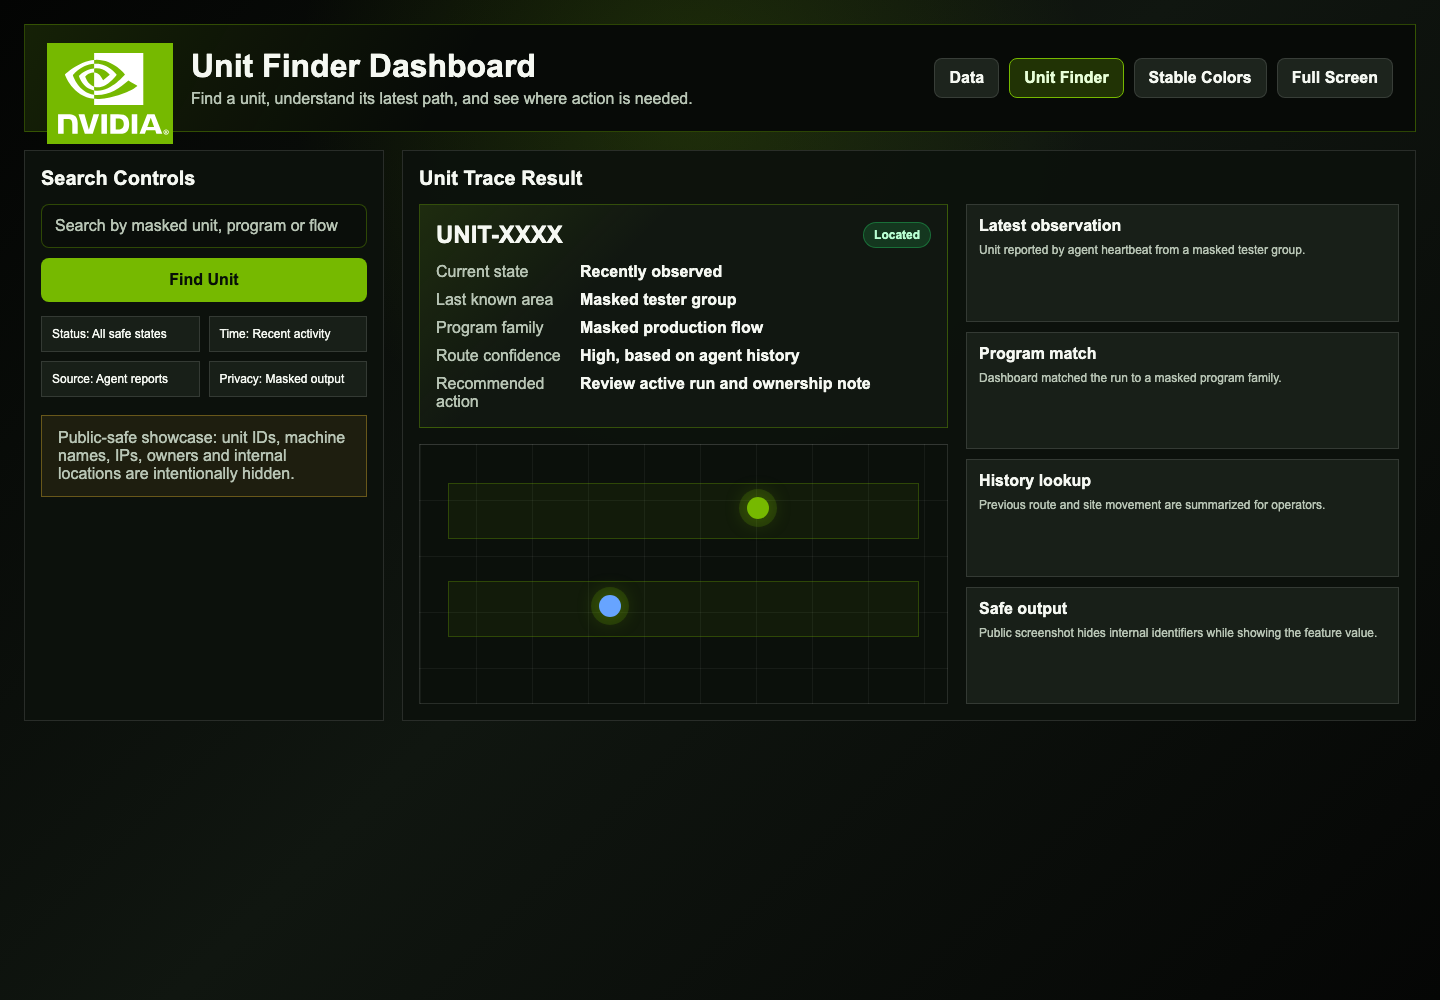
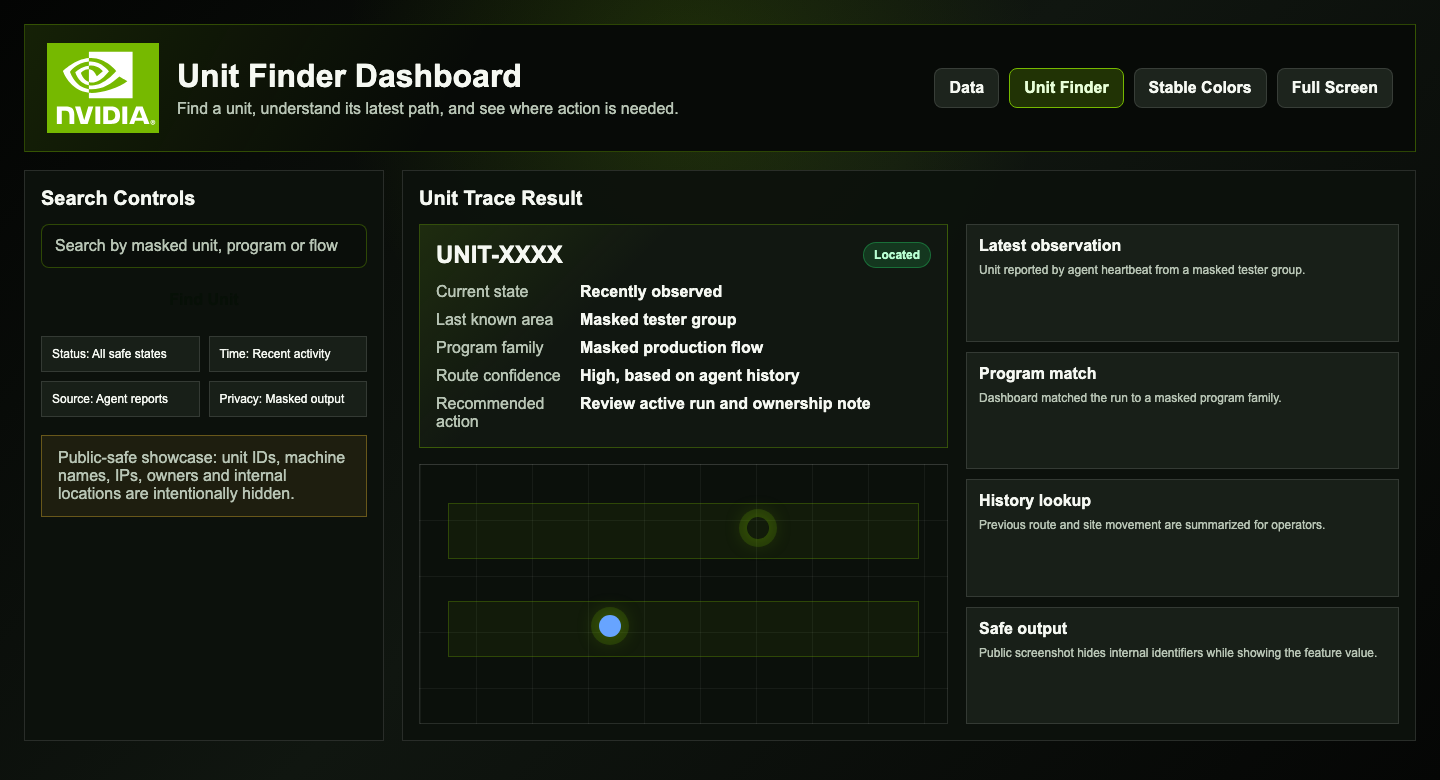
Add sanitized data dashboard showcase

diff --git a/README.md b/README.md
@@ -8,6 +8,10 @@ The real source code and production configuration are private. This repository c
 
 ![Tester Monitor Dashboard overview](assets/dashboard-overview.png)
 
+## Data Dashboard
+
+![Tester Monitor data dashboard](assets/data-dashboard.png)
+
 ## Unit Finder
 
 ![Unit Finder dashboard](assets/unit-finder.png)
@@ -25,6 +29,7 @@ It provides a clean operational layer for:
 - Live tester status and traffic-light availability.
 - Stable color rules that reduce false busy/free signals.
 - Agent health and heartbeat visibility.
+- Data views for trends, usage patterns and operational summaries.
 - Calendar-aware status context.
 - Remote action entry points for internal operators.
 - Unit finding and recent path lookup.
@@ -34,10 +39,15 @@ It provides a clean operational layer for:
 ## Recent Tester Platform Work
 
 - Built a public-safe showcase layer that explains the system without exposing internal data.
+- Added a Data Dashboard presentation for trends, usage patterns and operational summaries with all sensitive values masked.
 - Added Unit Finder presentation for locating units and reviewing recent observations.
 - Documented stable color logic for busy, idle, available and offline states.
 - Highlighted the agent reporting flow across Windows and Linux machines.
 - Clarified which parts are private and which parts are safe to show publicly.
+
+## Data Dashboard Capability
+
+The Data Dashboard shows operational trends, relative activity, dashboard usage and high-level status breakdowns. The public version uses anonymized labels, masked totals and sample data so the viewer can understand the product without seeing tester names, IPs, exact counts, internal locations or production identifiers.
 
 ## Unit Finder Capability
 
@@ -47,7 +57,7 @@ For privacy, the public screenshot uses masked unit IDs, generic tester groups a
 
 ## My Work
 
-I designed and implemented the dashboard experience, status logic, agent reporting flow, protected code-download flow, remote install/repair helpers, Unit Finder view, operational documentation and public-safe portfolio presentation.
+I designed and implemented the dashboard experience, status logic, data reporting view, agent reporting flow, protected code-download flow, remote install/repair helpers, Unit Finder view, operational documentation and public-safe portfolio presentation.
 
 ## Privacy And Access
 